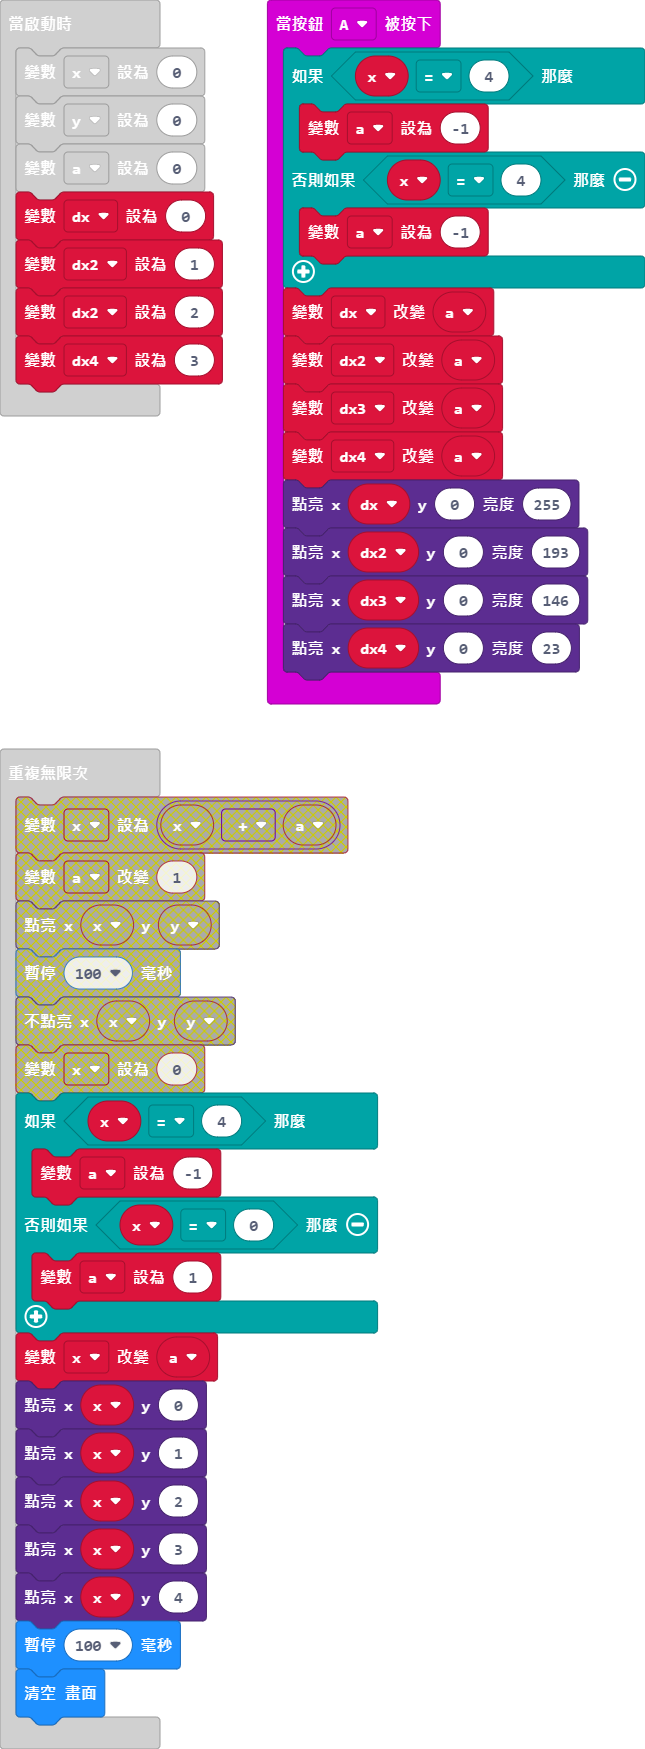
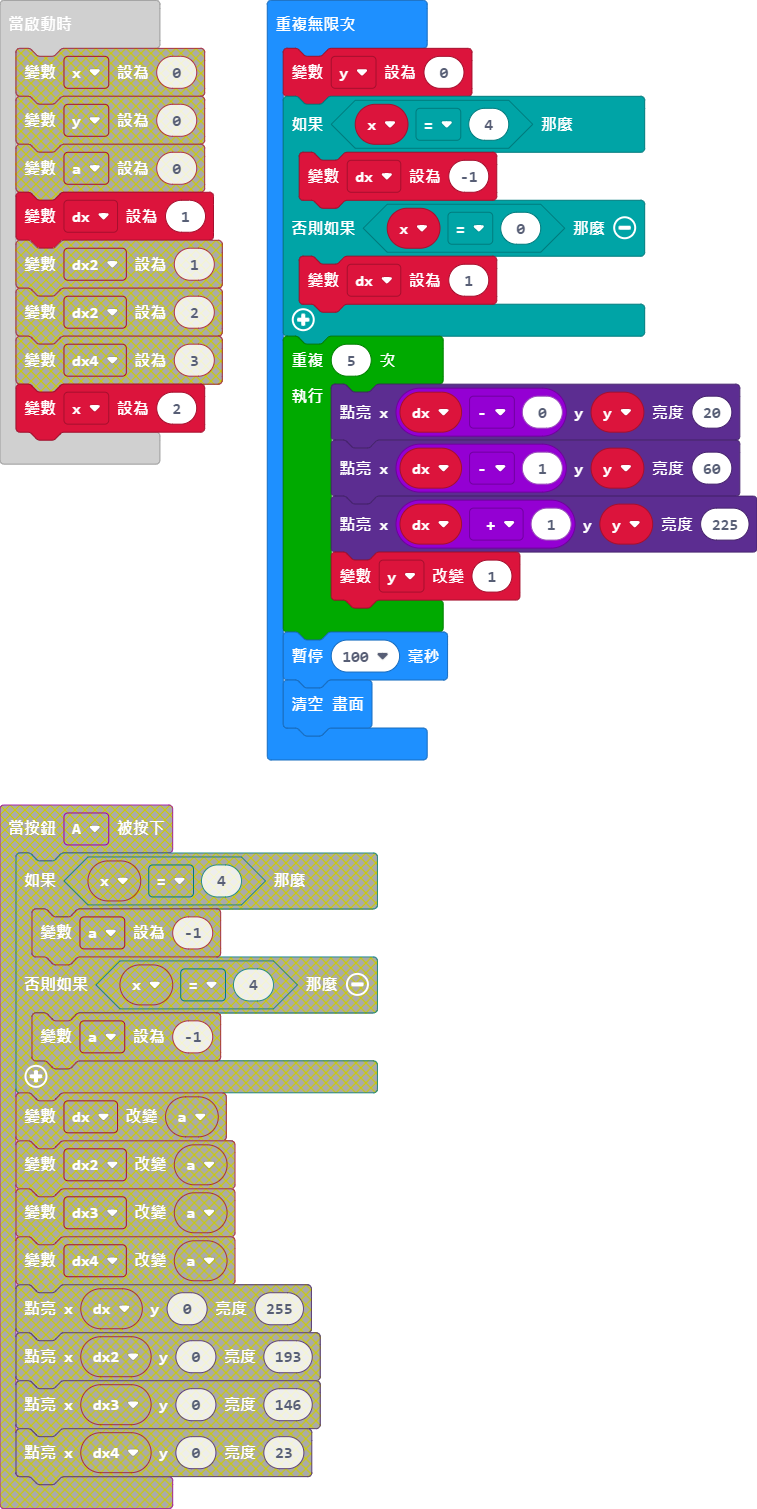
更新 main.blocks, main.ts

diff --git a/main.ts b/main.ts
@@ -1,43 +1,22 @@
-input.onButtonPressed(Button.A, function () {
-    if (x == 4) {
-        a = -1
-    } else if (x == 4) {
-        a = -1
-    }
-    dx += a
-    dx2 += a
-    dx3 += a
-    dx4 += a
-    led.plotBrightness(dx, 0, 255)
-    led.plotBrightness(dx2, 0, 193)
-    led.plotBrightness(dx3, 0, 146)
-    led.plotBrightness(dx4, 0, 23)
-})
-let dx3 = 0
-let dx4 = 0
-let dx2 = 0
-let dx = 0
-let a = 0
-let x = 0
-x = 0
 let y = 0
-a = 0
-dx = 0
-dx2 = 1
-dx2 = 2
-dx4 = 3
+let x = 2
+let dx = 1
 basic.forever(function () {
+	
+})
+basic.forever(function () {
+    y = 0
     if (x == 4) {
-        a = -1
+        dx = -1
     } else if (x == 0) {
-        a = 1
+        dx = 1
     }
-    x += a
-    led.plot(x, 0)
-    led.plot(x, 1)
-    led.plot(x, 2)
-    led.plot(x, 3)
-    led.plot(x, 4)
+    for (let index = 0; index < 5; index++) {
+        led.plotBrightness(dx - 0, y, 20)
+        led.plotBrightness(dx - 1, y, 60)
+        led.plotBrightness(dx + 1, y, 225)
+        y += 1
+    }
     basic.pause(100)
     basic.clearScreen()
 })
